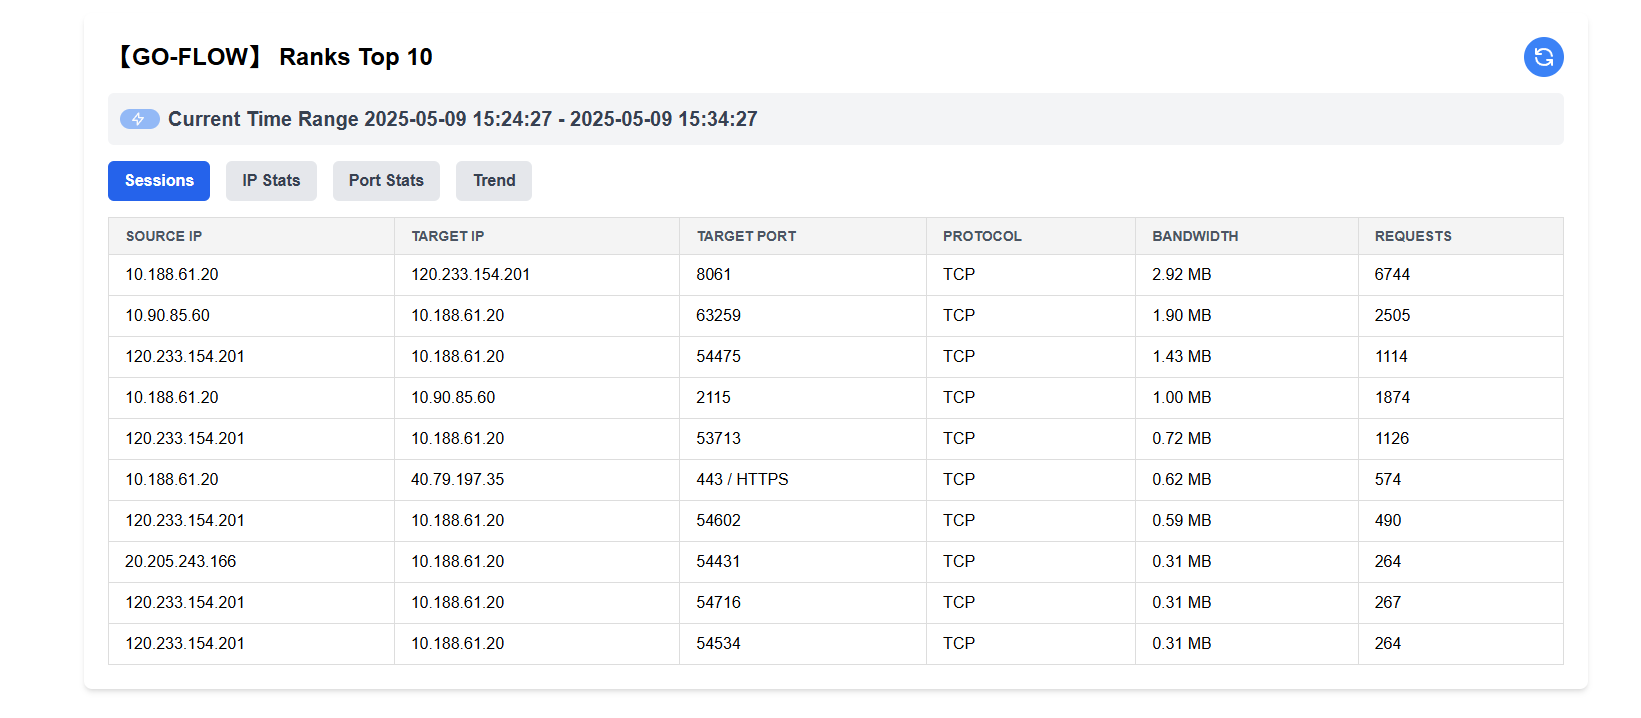
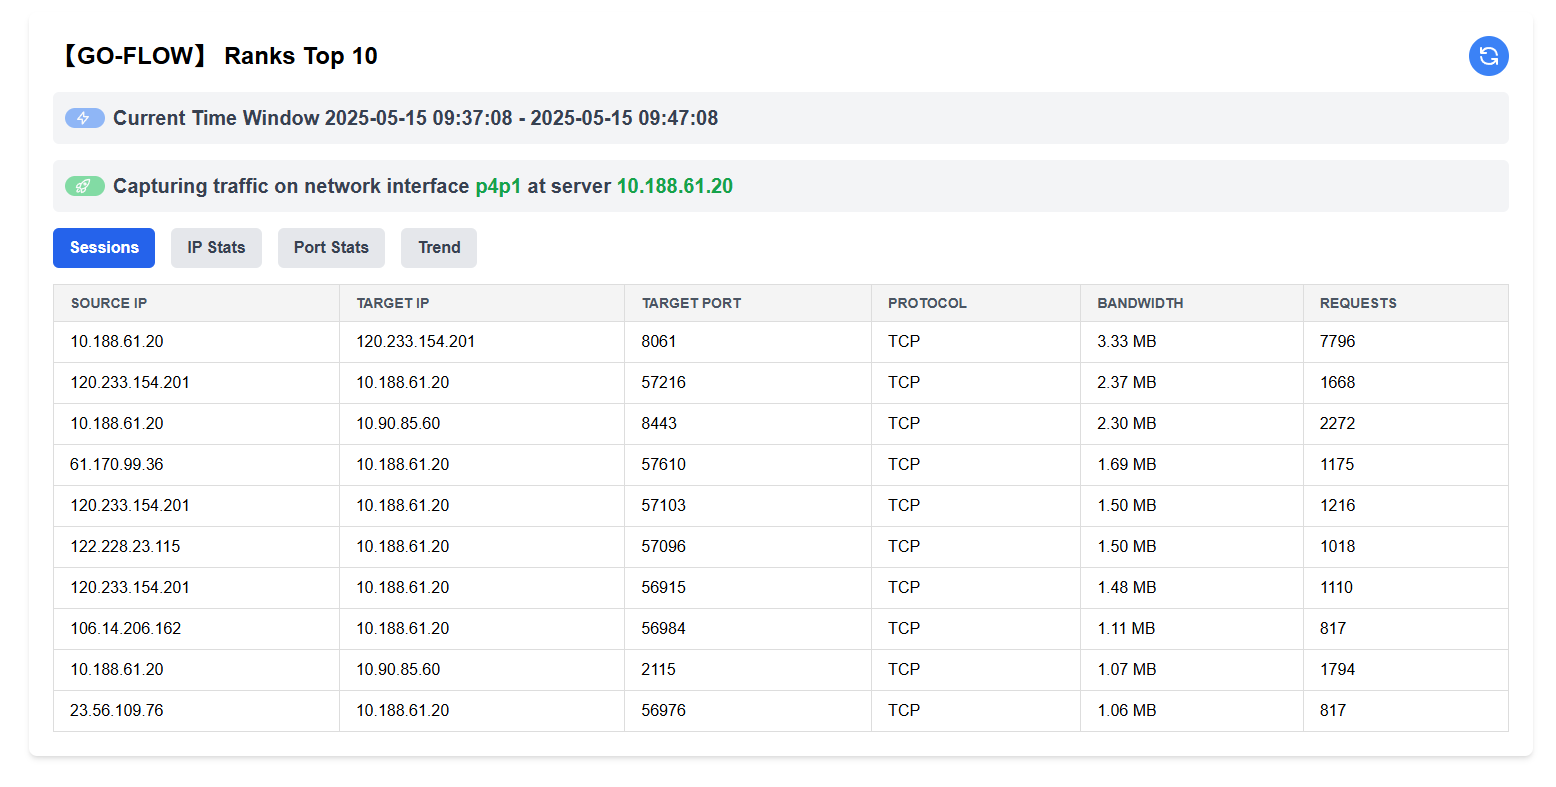
feat(ui): display monitored network interface and server IP on page

diff --git a/flow/index.html b/flow/index.html
@@ -62,6 +62,8 @@
         const [loading, setLoading] = useState(false);
         const [tab, setTab] = useState('traffic');
         const canvasRef = useRef(null);
+        const [eth, setEth] = useState("");
+        const [ip, setIp] = useState("");
 
         const formatDateTime = (unixSeconds) => {
             const date = new Date(unixSeconds * 1000);
@@ -103,6 +105,13 @@
                 setRank(topJson.rank || 0);
                 setTimestamp(topJson.timestamp || Math.floor(Date.now() / 1000));
                 setWindowSize(topJson.window_size || 3600);
+                const sysResponse = await fetch('/sys', {cache: 'no-cache'});
+                if (!sysResponse.ok) {
+                    throw new Error(`HTTP error from /sys: ${sysResponse.status}`);
+                }
+                const sysJson = await sysResponse.json();
+                setEth(sysJson.network_interface);
+                setIp(sysJson.local_ip);
 
                 let dataArray = [];
                 if (tab === 'traffic') {
@@ -395,18 +404,35 @@
                         </button>
                     </div>
                     {timestamp > 0 && windowSize > 0 && (
-                        <p className="text-xl font-semibold text-gray-700 bg-gray-100 p-3 rounded-md mb-4 flex items-center">
-                            <span
-                                className="inline-flex items-center bg-blue-500 text-white text-sm font-medium px-2.5 py-0.5 rounded-full mr-2 animate-pulse"
-                            >
-                                <svg className="h-4 w-4 mr-1" xmlns="http://www.w3.org/2000/svg" fill="none"
-                                     viewBox="0 0 24 24" stroke="currentColor">
-                                    <path strokeLinecap="round" strokeLinejoin="round" strokeWidth={2}
-                                          d="M13 10V3L4 14h7v7l9-11h-7z"/>
-                                </svg>
-                            </span>
-                            Current Time Range {getTimeRange()}
-                        </p>
+                        <>
+                            <p className="text-xl font-semibold text-gray-700 bg-gray-100 p-3 rounded-md mb-4 flex items-center">
+            <span
+                className="inline-flex items-center bg-blue-500 text-white text-sm font-medium px-2.5 py-0.5 rounded-full mr-2 animate-pulse"
+            >
+                <svg className="h-4 w-4 mr-1" xmlns="http://www.w3.org/2000/svg" fill="none" viewBox="0 0 24 24"
+                     stroke="currentColor">
+                    <path strokeLinecap="round" strokeLinejoin="round" strokeWidth={2} d="M13 10V3L4 14h7v7l9-11h-7z"/>
+                </svg>
+            </span>
+                                Current Time Window {getTimeRange()}
+                            </p>
+                            <p className="text-xl font-semibold text-gray-700 bg-gray-100 p-3 rounded-md mb-4 flex items-center">
+            <span
+                className="inline-flex items-center bg-green-500 text-white text-sm font-medium px-2.5 py-0.5 rounded-full mr-2 animate-pulse"
+            >
+                <svg className="h-4 w-4 mr-1" xmlns="http://www.w3.org/2000/svg" fill="none" viewBox="0 0 24 24"
+                     stroke="currentColor">
+                    <path strokeLinecap="round" strokeLinejoin="round" strokeWidth={2}
+                          d="M15.59 14.37a6 6 0 0 1-5.84 7.38v-4.8m5.84-2.58a14.98 14.98 0 0 0 6.16-12.12A14.98 14.98 0 0 0 9.631 8.41m5.96 5.96a14.926 14.926 0 0 1-5.841 2.58m-.119-8.54a6 6 0 0 0-7.381 5.84h4.8m2.581-5.84a14.927 14.927 0 0 0-2.58 5.84m2.699 2.7c-.103.021-.207.041-.311.06a15.09 15.09 0 0 1-2.448-2.448 14.9 14.9 0 0 1 .06-.312m-2.24 2.39a4.493 4.493 0 0 0-1.757 4.306 4.493 4.493 0 0 0 4.306-1.758M16.5 9a1.5 1.5 0 1 1-3 0 1.5 1.5 0 0 1 3 0Z"/>
+                </svg>
+            </span>
+                                <span>
+                Capturing traffic on network interface <span className="text-green-600">{eth}</span> at server <span
+                                    className="text-green-600">{ip}</span>
+            </span>
+                            </p>
+                        </>
+
                     )}
                     <div className="flex space-x-4 mb-4">
                         <button

diff --git a/utils/utils.go b/utils/utils.go
@@ -15,12 +15,14 @@ const (
 )
 
 var (
-	Ctx    context.Context
-	Cancel context.CancelFunc
+	Ctx     context.Context
+	Cancel  context.CancelFunc
+	LocalIp string
 )
 
 func init() {
 	Ctx, Cancel = context.WithCancel(context.Background())
+	LocalIp = GetLocalIp()
 }
 
 var PortMapping = map[string]string{
@@ -113,4 +115,52 @@ func ListAvailableDevices() {
 		}
 		fmt.Println()
 	}
+}
+
+func GetLocalIp() string {
+	var (
+		err         error
+		localIpAddr string
+		ifs         []net.Interface
+		as          []net.Addr
+	)
+	if localIpAddr != "" {
+		return localIpAddr
+	}
+	ifs, err = net.Interfaces()
+	if err != nil {
+		return "Unknown"
+	}
+	for _, i := range ifs {
+		if i.Flags&net.FlagUp == 0 {
+			continue
+		}
+		if i.Flags&net.FlagLoopback != 0 {
+			continue
+		}
+		as, err = i.Addrs()
+		if err != nil {
+			return "Unknown"
+		}
+		for _, addr := range as {
+			var ip net.IP
+			switch v := addr.(type) {
+			case *net.IPNet:
+				ip = v.IP
+			case *net.IPAddr:
+				ip = v.IP
+			}
+			if ip == nil || ip.IsLoopback() {
+				continue
+			}
+			ip = ip.To4()
+
+			if ip == nil {
+				continue
+			}
+			localIpAddr = ip.String()
+			return localIpAddr
+		}
+	}
+	return "Unknown"
 }

diff --git a/flow/flow.go b/flow/flow.go
@@ -638,6 +638,11 @@ type TrendResponse struct {
 	WindowSize int         `json:"window_size"`
 }
 
+type SysResponse struct {
+	NetworkInterface string `json:"network_interface"`
+	LocalIp          string `json:"local_ip"`
+}
+
 func (w *Window) ServeHTTP(wr http.ResponseWriter, r *http.Request) {
 	if r.URL.Path == "/top" {
 		w.cacheMu.RLock()
@@ -734,6 +739,17 @@ func (w *Window) ServeHTTP(wr http.ResponseWriter, r *http.Request) {
 		response := TrendResponse{
 			Data:       trend,
 			WindowSize: int(w.size.Seconds()),
+		}
+		wr.Header().Set("Content-Type", "application/json")
+		if err := ji.NewEncoder(wr).Encode(response); err != nil {
+			http.Error(wr, "Failed to encode JSON", http.StatusInternalServerError)
+		}
+		return
+	}
+	if r.URL.Path == "/sys" {
+		response := SysResponse{
+			NetworkInterface: conf.CoreConf.Server.Eth,
+			LocalIp:          utils.LocalIp,
 		}
 		wr.Header().Set("Content-Type", "application/json")
 		if err := ji.NewEncoder(wr).Encode(response); err != nil {
